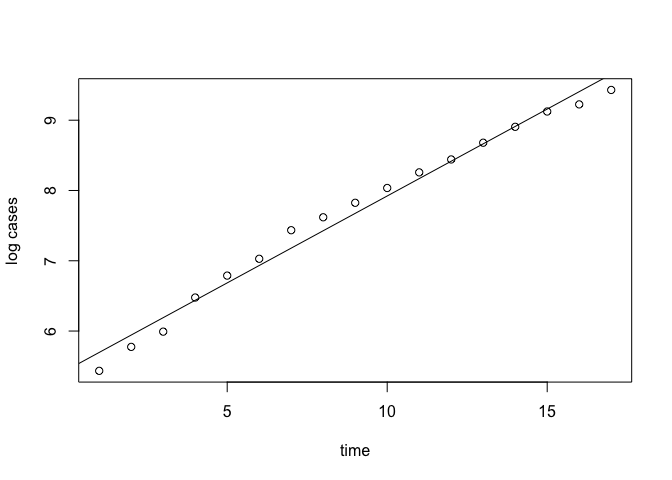
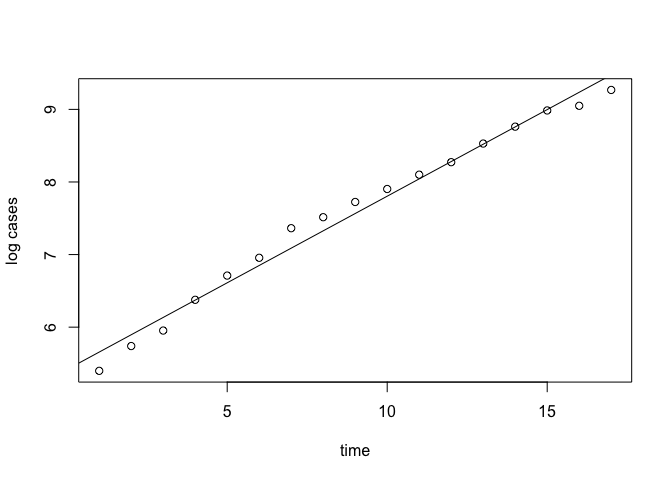
Add home page, navigation and theme

diff --git a/draft_analysis_Italy.md b/draft_analysis_Italy.md
@@ -12,16 +12,16 @@ by means of a simple linear regression ad in
 <https://kingaa.github.io/clim-dis/parest/parest.html>
 
 ``` r
-plot(dat_csv$data,dat_csv$totale_casi,ylab="Total Covid cases",xlab="Date")
+plot(dat_csv$data,dat_csv$totale_attualmente_positivi,ylab="Total Covid cases",xlab="Date")
 ```
 
 ![](draft_analysis_Italy_files/figure-gfm/plot%20data-1.png)<!-- -->
 
 ``` r
-mean(diff(log(dat_csv$totale_casi)))
+mean(diff(log(dat_csv$totale_attualmente_positivi)))
 ```
 
-    ## [1] 0.2497948
+    ## [1] 0.2418439
 
 The grow is exponential (rate of increase of about 25%). We estimate the
 R0 parameter by means of a linear model. R0 indicates how contagious an
@@ -37,7 +37,7 @@ The slope b indicate the rate of exponetial increase, used for the R0
 calculation.  
 R code:  
 fit1 \<-
-    lm(log(totale\_casi)~t,data=dat\_csv)
+    lm(log(totale\_attualmente\_positivi)~t,data=dat\_csv)
 
 ``` r
 head(dat_csv)
@@ -73,34 +73,35 @@ head(dat_csv)
     ## 6 6
 
 ``` r
-fit1 <- lm(log(totale_casi)~t,data=dat_csv)
+fit1 <- lm(log(totale_attualmente_positivi)~t,data=dat_csv)
 summary(fit1)
 ```
 
     ## 
     ## Call:
-    ## lm(formula = log(totale_casi) ~ t, data = dat_csv)
+    ## lm(formula = log(totale_attualmente_positivi) ~ t, data = dat_csv)
     ## 
     ## Residuals:
-    ##      Min       1Q   Median       3Q      Max 
-    ## -0.26205 -0.16861  0.02459  0.10366  0.25476 
+    ##       Min        1Q    Median        3Q       Max 
+    ## -0.258470 -0.155400  0.004415  0.099651  0.275289 
     ## 
     ## Coefficients:
     ##             Estimate Std. Error t value Pr(>|t|)    
-    ## (Intercept)  5.44839    0.08156   66.80  < 2e-16 ***
-    ## t            0.24739    0.00796   31.08 4.93e-15 ***
+    ## (Intercept) 5.418073   0.079870   67.84  < 2e-16 ***
+    ## t           0.238560   0.007794   30.61 6.19e-15 ***
     ## ---
     ## Signif. codes:  0 '***' 0.001 '**' 0.01 '*' 0.05 '.' 0.1 ' ' 1
     ## 
-    ## Residual standard error: 0.1608 on 15 degrees of freedom
-    ## Multiple R-squared:  0.9847, Adjusted R-squared:  0.9837 
-    ## F-statistic:   966 on 1 and 15 DF,  p-value: 4.93e-15
+    ## Residual standard error: 0.1574 on 15 degrees of freedom
+    ## Multiple R-squared:  0.9842, Adjusted R-squared:  0.9832 
+    ## F-statistic: 936.7 on 1 and 15 DF,  p-value: 6.187e-15
 
 The prediction is good (\(R^2\) near 1). However the tendency is for a
-reduction of the slope.
+reduction of the
+slope.
 
 ``` r
-plot(dat_csv$t,log(dat_csv$totale_casi),ylab="log cases",xlab="time")
+plot(dat_csv$t,log(dat_csv$totale_attualmente_positivi),ylab="log cases",xlab="time")
 abline(coef(summary(fit1))[,1])
 ```
 
@@ -123,34 +124,33 @@ the worst scenario to begin.
 slope <-coef(summary(fit1))[2,1]; slope
 ```
 
-    ## [1] 0.2473859
+    ## [1] 0.2385597
 
 ``` r
 slope.se <- coef(summary(fit1))[2,2]; slope.se
 ```
 
-    ## [1] 0.007959644
+    ## [1] 0.007794469
 
 ``` r
 ### R0 estimates and 95% IC 
 R_0=slope*14+1;R_0
 ```
 
-    ## [1] 4.463403
+    ## [1] 4.339836
 
 ``` r
 (slope+c(-1,1)*1.96*slope.se)*14+1
 ```
 
-    ## [1] 4.244990 4.681815
+    ## [1] 4.125955 4.553716
 
 We want to make a short term forecast (14 days) with 3 scenario:  
 \-Scenario 1: 10 exposed people for each COVID-19 case and beta the same
-(no restrictions made or even no effects) -Scenario 2: 5 exposed people
-for each COVID-19 case and beta reduced of 50% (-50% both exposed people
-and -50% COVID19 contagious power) -Scenario 3: 3 exposed people for
-each COVID-19 case and beta reduced of 50% (-70% both exposed people and
--50% COVID19 contagious power)
+(no restrictions made or even no effects) -Scenario 2: 10 exposed people
+for each COVID-19 case and beta reduced of 50% (-50% COVID19 contagious
+power) -Scenario 3: 5 exposed people for each COVID-19 case and beta
+reduced of 50% (-50% both exposed people and COVID19 contagious power)
 
 We fix a series of initial parameters: -I0: initial number of COVID-19
 cases  
@@ -163,14 +163,14 @@ cases
 
 ``` r
 # initial number of infectus
-I0<-max(dat_csv$totale_casi); I0
+I0<-dat_csv$totale_attualmente_positivi[dim(dat_csv)[1]]; I0
 ```
 
-    ## [1] 12462
+    ## [1] 10590
 
 ``` r
 # initial number of recovered
-R0<-max(dat_csv$dimessi_guariti); R0
+R0<-dat_csv$dimessi_guariti[dim(dat_csv)[1]]; R0
 ```
 
     ## [1] 1045
@@ -210,21 +210,36 @@ f1<-10
 initials <- c(S = 0.95, E = (f1*I0/N), I = I0/N, R = R0/N)
 seir1 <- SEIR(pars = parameters, init = initials, time = 0:forecast)
 parameters <- c(mu = mu0, beta = beta0*1/2, sigma = sigma0, gamma = 1/duration)
-f2<-5
+f2<-10
 initials <- c(S = 0.95, E = (f2*I0/N), I = I0/N, R = R0/N)
 seir2 <- SEIR(pars = parameters, init = initials, time = 0:forecast)
 parameters <- c(mu = mu0, beta = beta0*1/2, sigma = sigma0, gamma = 1/duration)
-f3<-3
+f3<-5
 initials <- c(S = 0.95, E = (f3*I0/N), I = I0/N, R = R0/N)
 seir3 <- SEIR(pars = parameters, init = initials, time = 0:forecast)
 
 
 date<-seq(as.Date("2020-02-24"),as.Date("2020-02-24")+forecast-1+dim(dat_csv)[1],1)
-plot(date,c(dat_csv$totale_casi,seir1$results$I[-1]*N),type="l",ylab="Number of infectus",xlab="time")
-lines(date,c(dat_csv$totale_casi,seir2$results$I[-1]*N),col=2)
-lines(date,c(dat_csv$totale_casi,seir3$results$I[-1]*N),col=3)
-lines(date[1:dim(dat_csv)[1]],dat_csv$totale_casi,lwd=2)
+plot(date,c(dat_csv$totale_attualmente_positivi,seir1$results$I[-1]*N),type="l",ylab="Cases",xlab="time",main="Infected")
+lines(date,c(dat_csv$totale_attualmente_positivi,seir2$results$I[-1]*N),col=2)
+lines(date,c(dat_csv$totale_attualmente_positivi,seir3$results$I[-1]*N),col=3)
+lines(date[1:dim(dat_csv)[1]],dat_csv$totale_attualmente_positivi,lwd=2)
 legend("topleft",c("first scenario","second scenario","third scenario"),lty=1,col=1:3)
 ```
 
-![](draft_analysis_Italy_files/figure-gfm/first%20scenario%20plot-1.png)<!-- -->
+![](draft_analysis_Italy_files/figure-gfm/scenario%20plot-1.png)<!-- -->
+The 3 scenarios show how measures of restriction can help to reduce the
+number of infected.  
+At the end of the 2 weeks (2020-03-25) the number of infected is
+(4.739564510^{4}). In the next plot the cumulative number of
+infected.
+
+``` r
+plot(date,cumsum(c(dat_csv$totale_attualmente_positivi,seir1$results$I[-1]*N)),type="l",ylab="Cases",xlab="time",main="Cumulative Infected")
+lines(date,cumsum(c(dat_csv$totale_attualmente_positivi,seir2$results$I[-1]*N)),col=2)
+lines(date,cumsum(c(dat_csv$totale_attualmente_positivi,seir3$results$I[-1]*N)),col=3)
+lines(date[1:dim(dat_csv)[1]],cumsum(dat_csv$totale_attualmente_positivi),lwd=2)
+legend("topleft",c("first scenario","second scenario","third scenario"),lty=1,col=1:3)
+```
+
+![](draft_analysis_Italy_files/figure-gfm/cumulative%20plot-1.png)<!-- -->

diff --git a/draft_analysis_Veneto.md b/draft_analysis_Veneto.md
@@ -4,7 +4,7 @@ PG
 3/11/2020
 
 fit1 \<-
-    lm(log(totale\_casi)~t,data=dat\_csv)
+    lm(log(totale\_attualmente\_positivi)~t,data=dat\_csv)
 
 ``` r
 head(dat_csv)
@@ -47,33 +47,33 @@ head(dat_csv)
     ## 126    8659 6
 
 ``` r
-fit1 <- lm(log(totale_casi)~t,data=dat_csv)
+fit1 <- lm(log(totale_attualmente_positivi)~t,data=dat_csv)
 summary(fit1)
 ```
 
     ## 
     ## Call:
-    ## lm(formula = log(totale_casi) ~ t, data = dat_csv)
+    ## lm(formula = log(totale_attualmente_positivi) ~ t, data = dat_csv)
     ## 
     ## Residuals:
-    ##      Min       1Q   Median       3Q      Max 
-    ## -0.48779 -0.13718  0.03358  0.16259  0.40289 
+    ##     Min      1Q  Median      3Q     Max 
+    ## -0.5137 -0.1337  0.0198  0.1733  0.4293 
     ## 
     ## Coefficients:
     ##             Estimate Std. Error t value Pr(>|t|)    
-    ## (Intercept)  3.78681    0.12821   29.54 1.05e-14 ***
-    ## t            0.19749    0.01251   15.79 9.43e-11 ***
+    ## (Intercept)  3.78683    0.13507   28.04 2.26e-14 ***
+    ## t            0.19262    0.01318   14.61 2.80e-10 ***
     ## ---
     ## Signif. codes:  0 '***' 0.001 '**' 0.01 '*' 0.05 '.' 0.1 ' ' 1
     ## 
-    ## Residual standard error: 0.2527 on 15 degrees of freedom
-    ## Multiple R-squared:  0.9432, Adjusted R-squared:  0.9394 
-    ## F-statistic: 249.2 on 1 and 15 DF,  p-value: 9.43e-11
+    ## Residual standard error: 0.2662 on 15 degrees of freedom
+    ## Multiple R-squared:  0.9344, Adjusted R-squared:   0.93 
+    ## F-statistic: 213.6 on 1 and 15 DF,  p-value: 2.805e-10
 
 Estimates
 
 ``` r
-plot(dat_csv$t,log(dat_csv$totale_casi),ylab="log cases",xlab="time")
+plot(dat_csv$t,log(dat_csv$totale_attualmente_positivi),ylab="log cases",xlab="time")
 abline(coef(summary(fit1))[,1])
 ```
 
@@ -85,13 +85,13 @@ used to estimate R0, the number of
 slope <-coef(summary(fit1))[2,1]; slope
 ```
 
-    ## [1] 0.1974943
+    ## [1] 0.1926221
 
 ``` r
 slope.se <- coef(summary(fit1))[2,2]; slope.se
 ```
 
-    ## [1] 0.01251172
+    ## [1] 0.01318112
 
 ``` r
 ### R0 estimates and 95%IC 
@@ -99,27 +99,40 @@ slope.se <- coef(summary(fit1))[2,2]; slope.se
 R_0=slope*14+1;R_0
 ```
 
-    ## [1] 3.764921
+    ## [1] 3.696709
 
 ``` r
 (slope+c(-1,1)*1.96*slope.se)*14+1
 ```
 
-    ## [1] 3.421599 4.108242
+    ## [1] 3.335019 4.058399
 
-We want to make a short term forecast (14 days) with 3 scenario. We fix
-a series of initial parameters.
+We want to make a short term forecast (14 days) with 3 scenario:  
+\-Scenario 1: 10 exposed people for each COVID-19 case and beta the same
+(no restrictions made or even no effects) -Scenario 2: 10 exposed people
+for each COVID-19 case and beta reduced of 50% (-50% COVID19 contagious
+power) -Scenario 3: 5 exposed people for each COVID-19 case and beta
+reduced of 50% (-50% both exposed people and COVID19 contagious power)
+
+We fix a series of initial parameters: -I0: initial number of COVID-19
+cases  
+\- R0: initial number of recovered  
+\- beta: the quantity connected to R0  
+\- N: Italian population  
+\- duration: infection duration of COVID-19  
+\- sigma0: the coronavirus transmission rate (half of flu epidemic)  
+\- mu0: the overall mortality rate
 
 ``` r
 # initial number of infectus
-I0<-max(dat_csv$totale_casi); I0
+I0<-dat_csv$totale_attualmente_positivi[dim(dat_csv)[1]]; I0
 ```
 
-    ## [1] 1023
+    ## [1] 940
 
 ``` r
 # initial number of recovered
-R0<-max(dat_csv$dimessi_guariti); R0
+R0<-dat_csv$dimessi_guariti[dim(dat_csv)[1]]; R0
 ```
 
     ## [1] 54
@@ -127,8 +140,8 @@ R0<-max(dat_csv$dimessi_guariti); R0
 ``` r
 #beta 
 beta0<-R_0/(14)
-# Veneto poulation
-N=4800000
+# Veneto population
+N=4905000
 # duration of COVID19 
 duration<-14
 #sigma0 is the coronavirus transmission rate fixed to 5%  (half of flu epidemic)
@@ -150,28 +163,42 @@ library(EpiDynamics)
     ##   print.quosures rlang
 
 ``` r
+forecast<-14
 parameters <- c(mu = mu0, beta = beta0, sigma = sigma0, gamma = 1/duration)
-# average number of single connections of an infected person
-# less contacts, less probability of new infections
-# we keep constant the other parameters
 f1<-10
 initials <- c(S = 0.95, E = (f1*I0/N), I = I0/N, R = R0/N)
-seir1 <- SEIR(pars = parameters, init = initials, time = 0:14)
-
-f2<-5
+seir1 <- SEIR(pars = parameters, init = initials, time = 0:forecast)
+parameters <- c(mu = mu0, beta = beta0*1/2, sigma = sigma0, gamma = 1/duration)
+f2<-10
 initials <- c(S = 0.95, E = (f2*I0/N), I = I0/N, R = R0/N)
-seir2 <- SEIR(pars = parameters, init = initials, time = 0:14)
-
-f3<-2
+seir2 <- SEIR(pars = parameters, init = initials, time = 0:forecast)
+parameters <- c(mu = mu0, beta = beta0*1/2, sigma = sigma0, gamma = 1/duration)
+f3<-5
 initials <- c(S = 0.95, E = (f3*I0/N), I = I0/N, R = R0/N)
-seir3 <- SEIR(pars = parameters, init = initials, time = 0:14)
+seir3 <- SEIR(pars = parameters, init = initials, time = 0:forecast)
 
 
-
-plot(c(dat_csv$totale_casi,seir1$results$I[-1]*N),type="l",ylab="Number of infectus",xlab="time")
-lines(c(dat_csv$totale_casi,seir2$results$I[-1]*N),col=2)
-lines(c(dat_csv$totale_casi,seir3$results$I[-1]*N),col=3)
-legend("topleft",c("1° scenario 10exp for case","2° scenario 5exp fo case","3° scenario 2exp for case"),lty=1,col=1:3)
+date<-seq(as.Date("2020-02-24"),as.Date("2020-02-24")+forecast-1+dim(dat_csv)[1],1)
+plot(date,c(dat_csv$totale_attualmente_positivi,seir1$results$I[-1]*N),type="l",ylab="Cases",xlab="time",main="Infected")
+lines(date,c(dat_csv$totale_attualmente_positivi,seir2$results$I[-1]*N),col=2)
+lines(date,c(dat_csv$totale_attualmente_positivi,seir3$results$I[-1]*N),col=3)
+lines(date[1:dim(dat_csv)[1]],dat_csv$totale_attualmente_positivi,lwd=2)
+legend("topleft",c("first scenario","second scenario","third scenario"),lty=1,col=1:3)
 ```
 
 ![](draft_analysis_Veneto_files/figure-gfm/first%20scenario%20plot-1.png)<!-- -->
+The 3 scenarios show how measures of restriction can help to reduce the
+number of infected.  
+At the end of the 2 weeks (2020-03-25) the number of infected is
+(4041.7140611). In the next plot the cumulative number of
+infected.
+
+``` r
+plot(date,cumsum(c(dat_csv$totale_attualmente_positivi,seir1$results$I[-1]*N)),type="l",ylab="Cases",xlab="time",main="Cumulative Infected")
+lines(date,cumsum(c(dat_csv$totale_attualmente_positivi,seir2$results$I[-1]*N)),col=2)
+lines(date,cumsum(c(dat_csv$totale_attualmente_positivi,seir3$results$I[-1]*N)),col=3)
+lines(date[1:dim(dat_csv)[1]],cumsum(dat_csv$totale_attualmente_positivi),lwd=2)
+legend("topleft",c("first scenario","second scenario","third scenario"),lty=1,col=1:3)
+```
+
+![](draft_analysis_Veneto_files/figure-gfm/cumulative%20plot-1.png)<!-- -->
